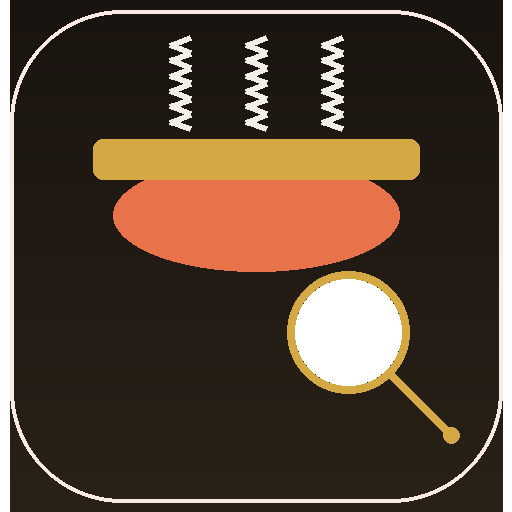
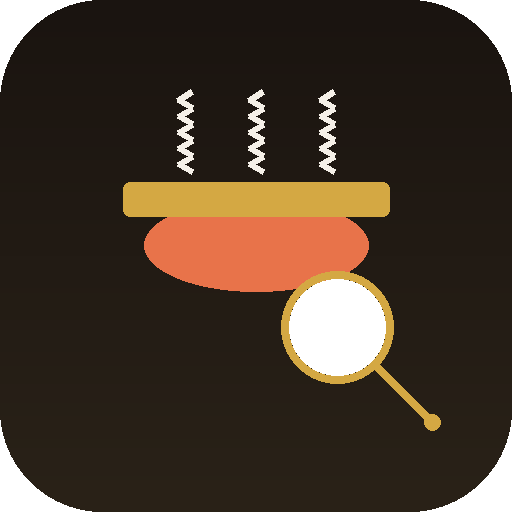
Fix: open recipe links in system browser, add back button, fix WebView navigation

Changed region(s): [[0.0, 0.0, 1.0, 1.0], [0.1562, 0.0625, 0.8438, 0.5], [0.2812, 0.5, 0.9062, 0.875]]

diff --git a/static/service-worker.js b/static/service-worker.js
@@ -1,5 +1,5 @@
-const CACHE = 'culinary-v3';
-const ASSETS = ['/', '/static/css/style.css', '/static/js/app.js'];
+const CACHE = 'culinary-v4';
+const ASSETS = ['/', '/static/css/style.css?v=3', '/static/js/app.js?v=3', '/manifest.json'];
 
 self.addEventListener('install', e => {
   e.waitUntil(caches.open(CACHE).then(c => c.addAll(ASSETS)));
@@ -17,8 +17,8 @@ self.addEventListener('activate', e => {
 
 self.addEventListener('fetch', e => {
   const url = e.request.url;
-  // Network-first for CSS/JS — always try server, fall back to cache
-  if (url.includes('/static/') || url.endsWith('.css') || url.endsWith('.js')) {
+  // Network-first for search results and API — always fresh
+  if (url.includes('/search') || url.includes('/api/')) {
     e.respondWith(
       fetch(e.request)
         .then(resp => {
@@ -26,12 +26,27 @@ self.addEventListener('fetch', e => {
           caches.open(CACHE).then(c => c.put(e.request, clone));
           return resp;
         })
-        .catch(() => caches.match(e.request))
+        .catch(() => caches.match(e.request).then(r => r || new Response('Offline', {status: 503})))
+    );
+  } else if (url.includes('/static/') || url.endsWith('.css') || url.endsWith('.js')) {
+    // Stale-while-revalidate — serve cache instantly, update in background
+    e.respondWith(
+      caches.match(e.request).then(cached => {
+        const fetchPromise = fetch(e.request).then(resp => {
+          caches.open(CACHE).then(c => c.put(e.request, resp.clone()));
+          return resp;
+        }).catch(() => null);
+        return cached || fetchPromise;
+      })
     );
   } else {
-    // Cache-first for everything else
+    // Cache-first for HTML and manifest
     e.respondWith(
-      caches.match(e.request).then(r => r || fetch(e.request).catch(() => new Response('Offline', {status: 503})))
+      caches.match(e.request).then(r => r || fetch(e.request).then(resp => {
+        const clone = resp.clone();
+        caches.open(CACHE).then(c => c.put(e.request, clone));
+        return resp;
+      }).catch(() => new Response('Offline', {status: 503})))
     );
   }
 });

diff --git a/static/css/style.css b/static/css/style.css
@@ -70,6 +70,26 @@ body {
   justify-content: space-between;
   align-items: center;
 }
+.header-actions {
+  display: flex;
+  align-items: center;
+  gap: 0.5rem;
+}
+.back-btn {
+  display: flex;
+  align-items: center;
+  justify-content: center;
+  width: 36px;
+  height: 36px;
+  background: var(--bg-input);
+  border: 1px solid var(--border);
+  border-radius: 50%;
+  color: var(--text);
+  text-decoration: none;
+  font-size: 1.2rem;
+  transition: all 0.2s;
+}
+.back-btn:hover { background: var(--accent); color: white; border-color: var(--accent); }
 .logo {
   font-family: var(--font-display);
   font-size: clamp(1.4rem, 3.5vw, 1.9rem);

diff --git a/templates/base.html b/templates/base.html
@@ -45,7 +45,10 @@
   <header class="site-header">
     <div class="container header-inner">
       <a href="/" class="logo">The Culinary Index</a>
-      <button class="theme-toggle" id="themeToggle" title="Toggle dark/light mode">&#9790;</button>
+      <div class="header-actions">
+        <a href="/" class="back-btn" id="backBtn" style="display:none;" title="Back to home">&#8592;</a>
+        <button class="theme-toggle" id="themeToggle" title="Toggle dark/light mode">&#9790;</button>
+      </div>
     </div>
   </header>
 

diff --git a/static/js/app.js b/static/js/app.js
@@ -162,4 +162,9 @@ document.addEventListener('DOMContentLoaded', () => {
   if (!localStorage.getItem('install_permanently_dismissed') && /Android|iPhone|iPad|iPod/i.test(navigator.userAgent)) {
     document.getElementById('installBanner').style.display = 'block';
   }
+  // Show back button on search/results pages
+  const backBtn = document.getElementById('backBtn');
+  if (backBtn && window.location.pathname !== '/') {
+    backBtn.style.display = 'flex';
+  }
 });

diff --git a/generate_icon.py b/generate_icon.py
@@ -1,134 +1,115 @@
-"""Generate modern app icon matching the Warm Ember theme."""
+"""Generate app icon matching the Warm Ember website theme."""
 
 import os
-from PIL import Image, ImageDraw
+from PIL import Image, ImageDraw, ImageFont
 
 ASSETS_DIR = os.path.join(os.path.dirname(os.path.abspath(__file__)), "assets")
 os.makedirs(ASSETS_DIR, exist_ok=True)
 
 
 def draw_icon(size=512):
-    """Draw a modern app icon with warm ember theme."""
+    """Draw a clean icon matching the Warm Ember website."""
     img = Image.new("RGBA", (size, size), (0, 0, 0, 0))
     draw = ImageDraw.Draw(img)
 
-    # Rounded square background with warm charcoal gradient
-    radius = int(size * 0.22)
-    margin = int(size * 0.02)
-    
-    # Create gradient background
+    # Rounded square background
+    radius = int(size * 0.20)
+
+    # Warm charcoal gradient background (matches website)
     for y in range(size):
-        # Gradient from dark charcoal (#1a1410) to slightly lighter (#2a2218)
-        r = int(26 + (42 - 26) * (y / size))
-        g = int(20 + (34 - 20) * (y / size))
-        b = int(16 + (24 - 16) * (y / size))
-        draw.line([(margin, y), (size - margin, y)], fill=(r, g, b))
-    
-    # Rounded square overlay for shape
-    draw.rounded_rectangle(
-        [margin, margin, size - margin, size - margin],
-        radius=radius,
-        outline=(232, 115, 74, 40),
-        width=max(2, size // 128),
-    )
+        t = y / size
+        r = int(26 + 16 * t)
+        g = int(20 + 14 * t)
+        b = int(16 + 8 * t)
+        draw.line([(0, y), (size - 1, y)], fill=(r, g, b))
+
+    # Rounded square mask
+    mask = Image.new("L", (size, size), 0)
+    mask_draw = ImageDraw.Draw(mask)
+    mask_draw.rounded_rectangle([0, 0, size - 1, size - 1], radius=radius, fill=255)
+    img.putalpha(mask)
 
     cx = size // 2
     cy = size // 2
 
-    # Cooking pot - simplified modern design
-    pot_w = int(size * 0.28)
-    pot_h = int(size * 0.22)
-    pot_y = int(size * 0.42)
-    
-    # Pot body (rounded bowl)
-    pot_x0 = cx - pot_w
-    pot_y0 = pot_y - pot_h // 2
-    pot_x1 = cx + pot_w
-    pot_y1 = pot_y + pot_h // 2
-    if pot_x1 > pot_x0 and pot_y1 > pot_y0:
-        draw.ellipse(
-            [pot_x0, pot_y0, pot_x1, pot_y1],
-            fill=(232, 115, 74),
-        )
-    
-    # Pot rim (wider)
-    rim_w = int(size * 0.32)
-    rim_h = int(size * 0.04)
-    rim_x0 = cx - rim_w
-    rim_y0 = pot_y - pot_h // 2 - rim_h
-    rim_x1 = cx + rim_w
-    rim_y1 = pot_y - pot_h // 2 + rim_h
-    if rim_x1 > rim_x0 and rim_y1 > rim_y0:
-        draw.rounded_rectangle(
-            [rim_x0, rim_y0, rim_x1, rim_y1],
-            radius=int(size * 0.02),
-            fill=(212, 168, 67),
-        )
+    # ===== Cooking Pot =====
+    pot_w = int(size * 0.22)
+    pot_h = int(size * 0.18)
+    pot_y = int(size * 0.48)
 
-    # Steam lines (3 vertical wavy lines)
-    steam_color = (240, 232, 220, 180)
+    # Pot body - warm orange ellipse
+    draw.ellipse(
+        [cx - pot_w, pot_y - pot_h // 2, cx + pot_w, pot_y + pot_h // 2],
+        fill=(232, 115, 74),
+    )
+
+    # Pot rim - gold bar
+    rim_w = int(size * 0.26)
+    rim_h = int(size * 0.035)
+    draw.rounded_rectangle(
+        [cx - rim_w, pot_y - pot_h // 2 - rim_h,
+         cx + rim_w, pot_y - pot_h // 2 + rim_h],
+        radius=int(size * 0.015),
+        fill=(212, 168, 67),
+    )
+
+    # ===== Steam Wisps =====
+    steam_color = (240, 232, 220, 170)
     steam_w = max(3, size // 85)
-    for i, offset in enumerate([-0.15, 0, 0.15]):
+    start_y = pot_y - pot_h // 2 - rim_h - int(size * 0.02)
+
+    for offset in [-0.14, 0, 0.14]:
         sx = cx + int(size * offset)
-        start_y = pot_y - pot_h // 2 - rim_h - int(size * 0.02)
-        end_y = start_y - int(size * 0.18)
-        
-        # Wavy line
+        end_y = start_y - int(size * 0.16)
         points = []
-        segments = 12
+        segments = 10
         for t in range(segments + 1):
             tt = t / segments
-            wave = int(size * 0.02 * (1 if t % 2 == 0 else -1))
+            wave = int(size * 0.015 * (1 if t % 2 == 0 else -1))
             px = sx + wave
             py = start_y - int((start_y - end_y) * tt)
             points.append((px, py))
-        
         if len(points) > 1:
             draw.line(points, fill=steam_color, width=steam_w)
 
-    # Magnifying glass (bottom right, overlapping pot slightly)
-    mg_r = int(size * 0.12)
-    mg_cx = cx + int(size * 0.18)
-    mg_cy = cy + int(size * 0.15)
+    # ===== Magnifying Glass =====
+    mg_r = int(size * 0.11)
+    mg_cx = cx + int(size * 0.16)
+    mg_cy = cy + int(size * 0.14)
     mg_line = max(2, size // 64)
 
-    mg_x0 = mg_cx - mg_r
-    mg_y0 = mg_cy - mg_r
-    mg_x1 = mg_cx + mg_r
-    mg_y1 = mg_cy + mg_r
-    if mg_x1 > mg_x0 and mg_y1 > mg_y0 and mg_r > 2:
-        # Glass circle with gold outline
+    if mg_r > 4:
+        # Glass circle
         draw.ellipse(
-            [mg_x0, mg_y0, mg_x1, mg_y1],
+            [mg_cx - mg_r, mg_cy - mg_r, mg_cx + mg_r, mg_cy + mg_r],
             outline=(212, 168, 67),
             width=mg_line,
         )
-        
-        # Glass fill (semi-transparent white)
-        inner = [mg_x0 + mg_line, mg_y0 + mg_line, mg_x1 - mg_line, mg_y1 - mg_line]
+
+        # Glass fill
+        inner = [mg_cx - mg_r + mg_line, mg_cy - mg_r + mg_line,
+                 mg_cx + mg_r - mg_line, mg_cy + mg_r - mg_line]
         if inner[2] > inner[0] and inner[3] > inner[1]:
             draw.ellipse(
                 inner,
-                fill=(255, 255, 255, 50),
+                fill=(255, 255, 255, 40),
             )
-        
-        # Handle (diagonal, gold color)
-        handle_len = max(2, int(size * 0.12))
-        angle_start = (mg_cx + int(mg_r * 0.7), mg_cy + int(mg_r * 0.7))
-        angle_end = (angle_start[0] + handle_len, angle_start[1] + handle_len)
+
+        # Handle
+        handle_len = max(2, int(size * 0.11))
+        hx = mg_cx + int(mg_r * 0.7)
+        hy = mg_cy + int(mg_r * 0.7)
         draw.line(
-            [angle_start, angle_end],
+            [(hx, hy), (hx + handle_len, hy + handle_len)],
             fill=(212, 168, 67),
             width=mg_line,
         )
-        
-        # Handle end cap
-        cap_r = mg_line
-        draw.ellipse(
-            [angle_end[0] - cap_r, angle_end[1] - cap_r,
-             angle_end[0] + cap_r, angle_end[1] + cap_r],
-            fill=(212, 168, 67),
-        )
+
+        # Handle end dot
+        dot_r = mg_line
+        ex = hx + handle_len
+        ey = hy + handle_len
+        draw.ellipse([ex - dot_r, ey - dot_r, ex + dot_r, ey + dot_r], fill=(212, 168, 67))
 
     return img
 
@@ -145,26 +126,42 @@ def generate_all_assets():
     ico_images[0].save(
         ico_path,
         format="ICO",
-        sizes=[(s, s) for s in sizes[:-1]],  # ICO max 256
+        sizes=[(s, s) for s in sizes[:-1]],
         append_images=ico_images[1:-1],
     )
     print(f"Created: {ico_path}")
 
-    # Generate PNG at various sizes
+    # Generate PNGs
     for s in [64, 128, 256, 512]:
         png_path = os.path.join(ASSETS_DIR, f"icon_{s}.png")
         draw_icon(s).save(png_path, format="PNG")
         print(f"Created: {png_path}")
 
-    # Generate the PWA icon (512x512)
-    pwa_path = os.path.join(os.path.dirname(ASSETS_DIR), "static", "icon-512.png")
-    draw_icon(512).save(pwa_path, format="PNG")
-    print(f"Created: {pwa_path}")
+    # PWA icon
+    pwa_dir = os.path.join(os.path.dirname(ASSETS_DIR), "static")
+    os.makedirs(pwa_dir, exist_ok=True)
+    draw_icon(512).save(os.path.join(pwa_dir, "icon-512.png"), format="PNG")
+    draw_icon(192).save(os.path.join(pwa_dir, "icon-192.png"), format="PNG")
+    print(f"Created: PWA icons (512px, 192px)")
 
-    # Generate Android adaptive icon components
-    fg_path = os.path.join(ASSETS_DIR, "ic_launcher_foreground.png")
-    draw_icon(432).save(fg_path, format="PNG")
-    print(f"Created: {fg_path}")
+    # Android launcher icons
+    android_dir = os.path.join(
+        os.path.dirname(ASSETS_DIR), "mobile", "android", "app", "src", "main", "res"
+    )
+    for name, size in [
+        ("mipmap-mdpi", 48), ("mipmap-hdpi", 72), ("mipmap-xhdpi", 96),
+        ("mipmap-xxhdpi", 144), ("mipmap-xxxhdpi", 192),
+    ]:
+        path = os.path.join(android_dir, name, "ic_launcher.png")
+        os.makedirs(os.path.dirname(path), exist_ok=True)
+        draw_icon(size).save(path, format="PNG")
+        print(f"Created: {name} ({size}px)")
+
+    # Splash screen
+    splash_path = os.path.join(android_dir, "drawable", "splash.png")
+    os.makedirs(os.path.dirname(splash_path), exist_ok=True)
+    draw_icon(1024).save(splash_path, format="PNG")
+    print(f"Created: splash screen")
 
     print("\nAll assets generated successfully!")
 

diff --git a/app.py b/app.py
@@ -13,15 +13,14 @@ logger = logging.getLogger("app")
 
 app = Flask(__name__)
 app.config["SECRET_KEY"] = os.environ.get("SECRET_KEY", "culinary-index-secret")
-app.config["SEND_FILE_MAX_AGE_DEFAULT"] = 0
+app.config["SEND_FILE_MAX_AGE_DEFAULT"] = 31536000  # 1 year for static files
 
 
 @app.after_request
 def add_cache_headers(response):
-    if request.path.startswith('/static/'):
+    # Only service-worker itself should never be cached
+    if request.path == '/sw.js':
         response.headers["Cache-Control"] = "no-cache, no-store, must-revalidate"
-        response.headers["Pragma"] = "no-cache"
-        response.headers["Expires"] = "0"
     return response
 
 
@@ -82,9 +81,7 @@ def api_search():
 
 @app.route("/manifest.json")
 def manifest():
-    resp = app.send_static_file("manifest.json")
-    resp.headers["Cache-Control"] = "no-cache, no-store, must-revalidate"
-    return resp
+    return app.send_static_file("manifest.json")
 
 
 @app.route("/sw.js")
